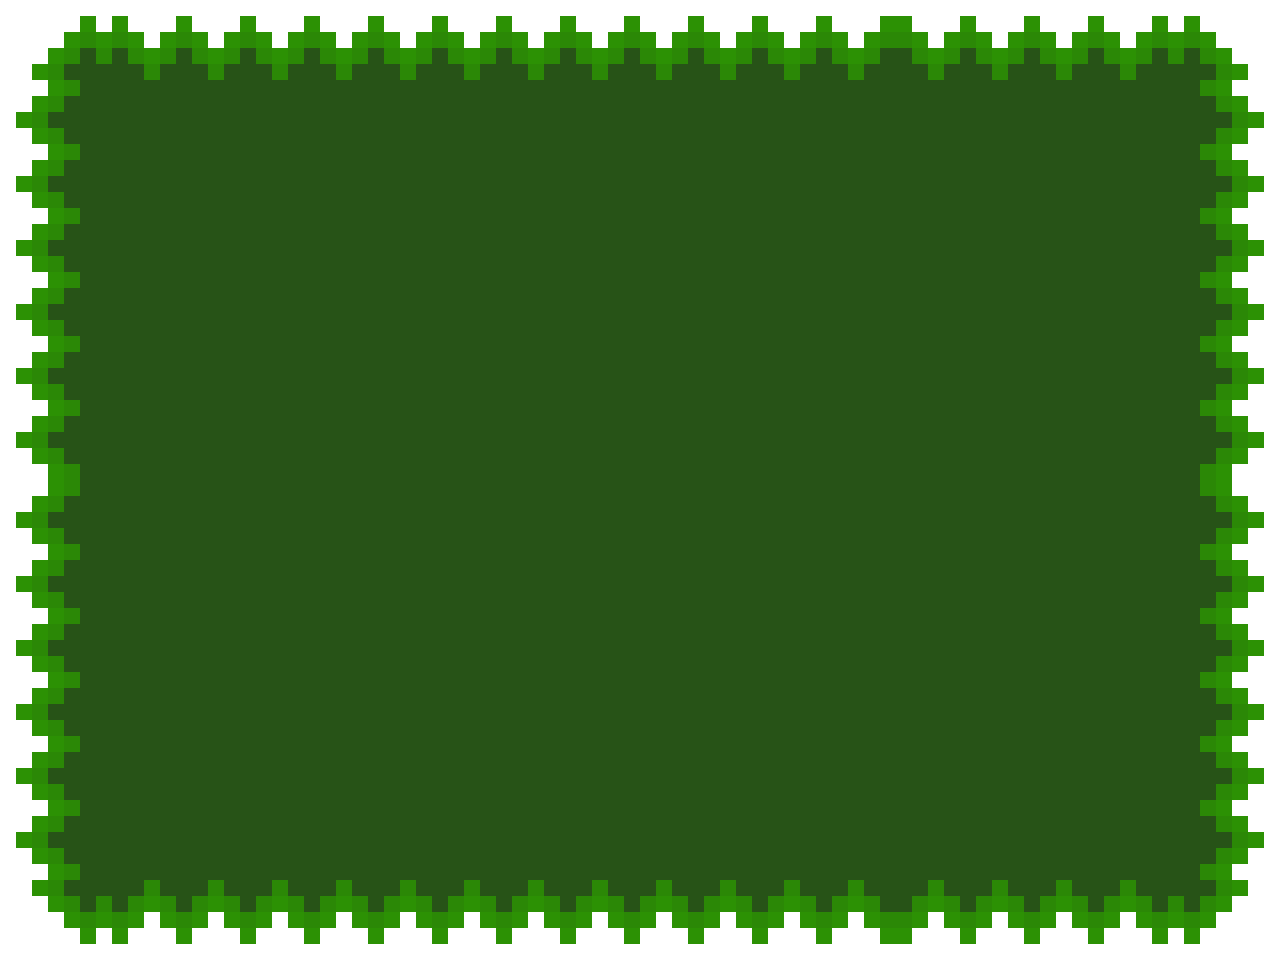
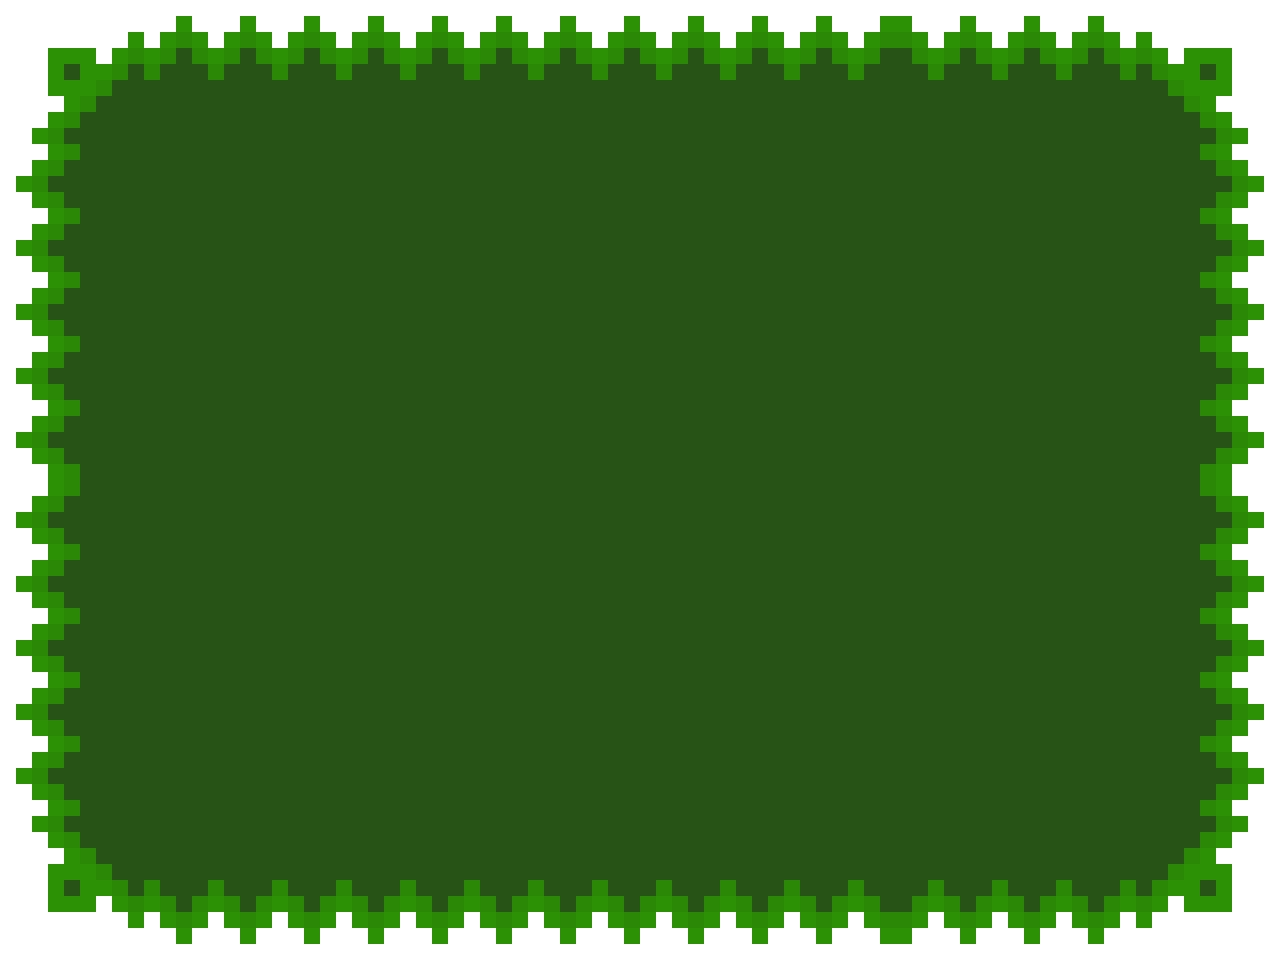
Actualización a las tarjetas
Se agregó el gif del buscaminas y se cambió el fondo de las tarjetas para mejorar las esquinas

diff --git a/src/components/Content/index.css b/src/components/Content/index.css
@@ -11,7 +11,7 @@
 .title {
   color: #ffcc00;
   filter: drop-shadow(0.3rem 0.3rem rgba(0, 0, 0, 1));
-  font-size: 4vw;
+  font-size: 3vw;
   text-align: center;
   animation: pulseGlow 1.5s infinite alternate;
 }
@@ -22,7 +22,9 @@
   width: 100%;
 }
 
-.gameButton {
+.gameButtonGachapon, 
+.gameButtonMinesweeper,
+.gameButtonTiktaktoe {
   position: relative;
   width: 30vw;
   flex: 4;
@@ -40,26 +42,32 @@
 
 }
 
-.gameButton:hover {
+.gameButtonGachapon:hover, 
+.gameButtonMinesweeper:hover,
+.gameButtonTiktaktoe:hover {
   transform: scale(0.95) rotate(2deg);
 }
 
-.gameButton:active {
+.gameButtonGachapon:active, 
+.gameButtonMinesweeper:active,
+.gameButtonTiktaktoe:active {
   transform: scale(1.05);
 }
 
 .nameGame {
   position: absolute;
   color: white;
-  text-shadow: 2px 2px 2px #000000;
+  text-shadow: 5px 5px 1px #000000;
   font-size: 2vw;
   right: 2.5vw;
+  bottom: 2.3vw;
   /* right: 35px; */
   /* bottom: 35px; */
-  bottom: 2.5vw;
+  
 }
 
-.gameButton img {
+.gameButtonGachapon img,  
+.gameButtonTiktaktoe img{
   width: 100%;
   height: 100%;
   filter: drop-shadow(0 2px 5px rgb(15, 34, 8, 0.75));
@@ -67,7 +75,18 @@
   transition: transform ease 0.4s;
 }
 
-.gameButton img:hover {
+.gameButtonMinesweeper img {
+  width: 60%;
+  height: 85%;
+  filter: drop-shadow(0 2px 5px rgb(15, 34, 8, 0.75));
+  transition: transform ease 0.4s;
+}
+
+.gameButtonGachapon img:hover {
+  transform: scale(1.45) rotate(-2deg) translate(3px, 27px);
+}
+
+.gameButtonMinesweeper img:hover {
   transform: scale(1.45) rotate(-2deg) translate(3px, 27px);
 }
 
@@ -102,12 +121,16 @@
     align-items: center;
   }
 
-  .gameButton {
+  .gameButtonGachapon, 
+  .gameButtonMinesweeper,
+  .gameButtonTiktaktoe {
     width: 25vh;
     min-width: 150px;
   }
 
-  .gameButton img {
+  .gameButtonGachapon img, 
+  .gameButtonMinesweeper img,
+  .gameButtonTiktaktoe img {
     transform: scale(1.25) translateY(25px);
   }
 

diff --git a/src/components/Content/index.jsx b/src/components/Content/index.jsx
@@ -8,6 +8,8 @@ import "./index.css";
 // Aquí debe añadir todas las imagenes de miniatura para los juegos
 // Luego los añades al botón así " <img src={nombredelImport}/> "
 import imgGachapon from "@/assets/Gachapon/Inserte Moneda.gif";
+import imgMinesweeper from "@/assets/Buscaminas/Bomba.gif";
+
 
 const Content = ({ selectedGame, setSelectedGame }) => {
   const { sounds } = useSound();
@@ -25,14 +27,15 @@ const Content = ({ selectedGame, setSelectedGame }) => {
           <h1 className="title">Selecciona un juego</h1>
 
           <div className="gameSelection">
-            <button onClick={() => handleClick("minesweeper")} className="gameButton">
+            <button onClick={() => handleClick("minesweeper")} className="gameButtonMinesweeper">
+              <img src={imgMinesweeper} />
               <span className="nameGame">Buscaminas</span>
             </button>
-            <button onClick={() => handleClick("gachapon")} className="gameButton">
+            <button onClick={() => handleClick("gachapon")} className="gameButtonGachapon">
               <img src={imgGachapon} />
               <span className="nameGame">Gachapon</span>
             </button>
-            <button onClick={() => handleClick("tiktaktoe")} className="gameButton">
+            <button onClick={() => handleClick("tiktaktoe")} className="gameButtonTiktaktoe">
               <span className="nameGame">Tic Tac Toe</span>
             </button>
 
